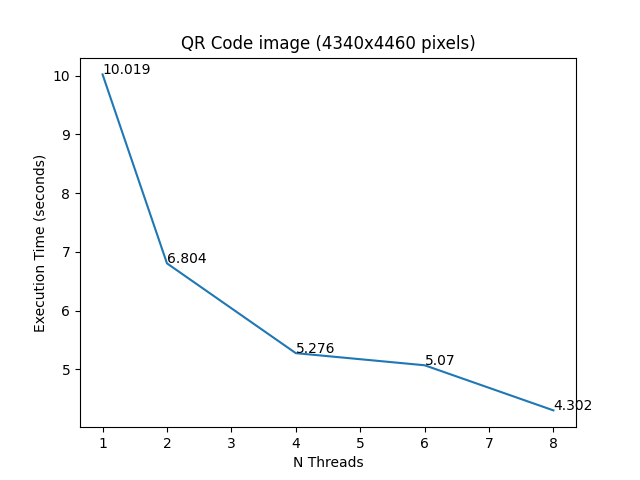
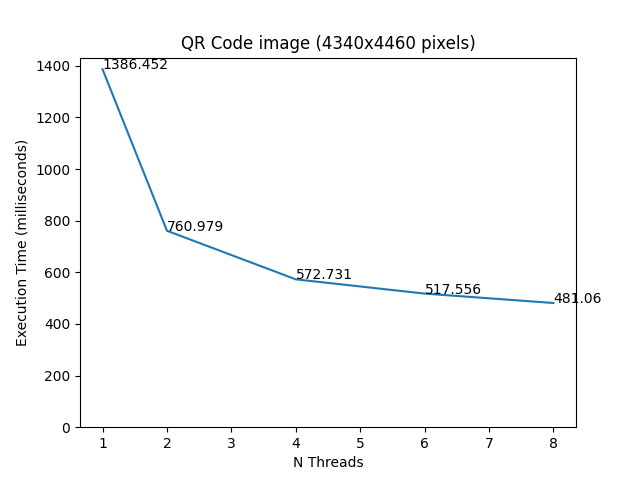
added -O3 flag and restricted

diff --git a/scripts/genplot.py b/scripts/genplot.py
@@ -2,14 +2,14 @@ import matplotlib.pyplot as plt
 
 title = "QR Code image (4340x4460 pixels)"
 nthreads = [1,2,4,6,8]
-times = [10019368.875, 6803757.5, 5276054.625, 5070326.75, 4302069.625]
+times = [1386452.0, 760978.875, 572731.25, 517555.625, 481059.75]
 
 # title = "QR Code image (2170x2230 pixels)"
 # nthreads = [1,2,4,6,8]
-# times = [1964211.625, 1329297.25, 1016332.75, 980577.25, 888286.875]
+# times = [402892.375, 198650.625, 149227.25, 143830.625, 130349.625]
 
 for i in range(0, len(times)):
-    times[i] /= 1000000
+    times[i] /= 1000
     times[i] = round(times[i], 3)
 
 x = nthreads
@@ -18,10 +18,12 @@ y = times
 plt.plot(x, y)
 
 plt.xlabel('N Threads')
-plt.ylabel('Execution Time (seconds)')
+plt.ylabel('Execution Time (milliseconds)')
 plt.title(title)
 
 for a,b in zip(x, y): 
     plt.text(a, b, str(b))
+
+plt.ylim([0, plt.ylim()[1]])
 
 plt.show()

diff --git a/parallel/src/image/Image.hpp b/parallel/src/image/Image.hpp
@@ -19,7 +19,7 @@ class Image
 public:
     int width;
     int height;
-    Pixel** pixels;
+    Pixel** __restrict__ pixels;
 
     Image()
     {}

diff --git a/parallel/src/processing/ConnectedComponents.hpp b/parallel/src/processing/ConnectedComponents.hpp
@@ -20,7 +20,7 @@ public:
 class Labels
 {
 public:
-    int** labels;
+    int** __restrict__ labels;
     int width;
     int height;
 

diff --git a/README.md b/README.md
@@ -86,7 +86,7 @@ The parallelization of the program using OpenMP is done in three different modul
 
 ### Benchmarks
 
-To test the impact of the parallelization of these algorithms a benchmark was developed. This benchmark processes the same image using the sequential and parallel versions of the program using 2,4,6 and 8 threads. To get more precise results, each configuration is executed 8 times, and then the average value of the execution times is used. The following plots show the values generated by this benchmark for 2 images. The first image having 2170x2230 pixels and the second 4340x4460 pixels. From these we can see we can get speedups up to 2.2 and 2.3 respectively.
+To test the impact of the parallelization of these algorithms a benchmark was developed. This benchmark processes the same image using the sequential and parallel versions of the program using 2,4,6 and 8 threads. It should be noted that all the programs were compiled using the `-O3` flag. To get more precise results, each configuration is executed 8 times, and then the average value of the execution times is used. The following plots show the values generated by this benchmark for 2 images. The first image having 2170x2230 pixels and the second 4340x4460 pixels. From these we can see we can get speedups up to $\approx 3.1$ and $\approx 2.9$ respectively.
 
 |   |   |
 |:---:|:---:|
